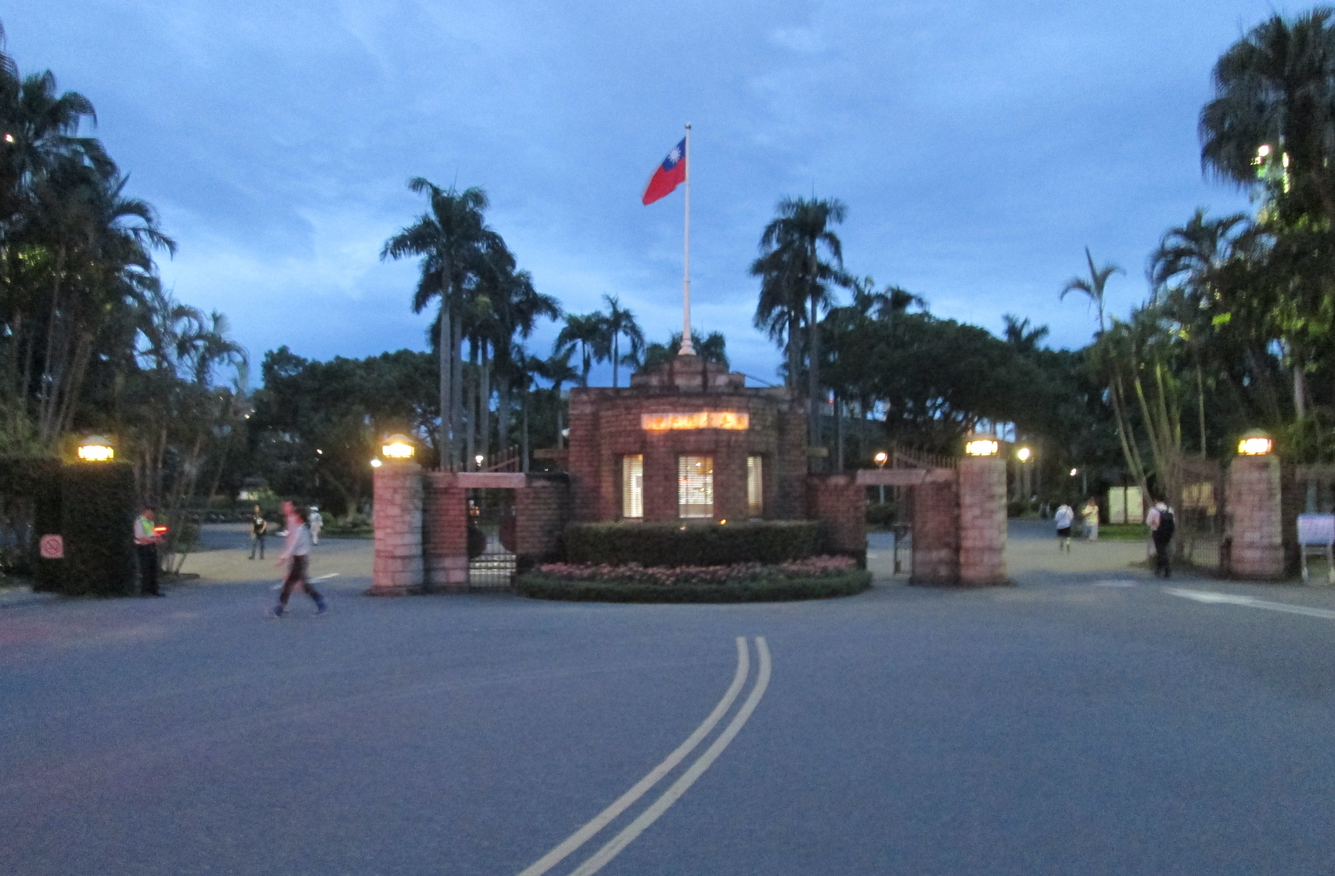
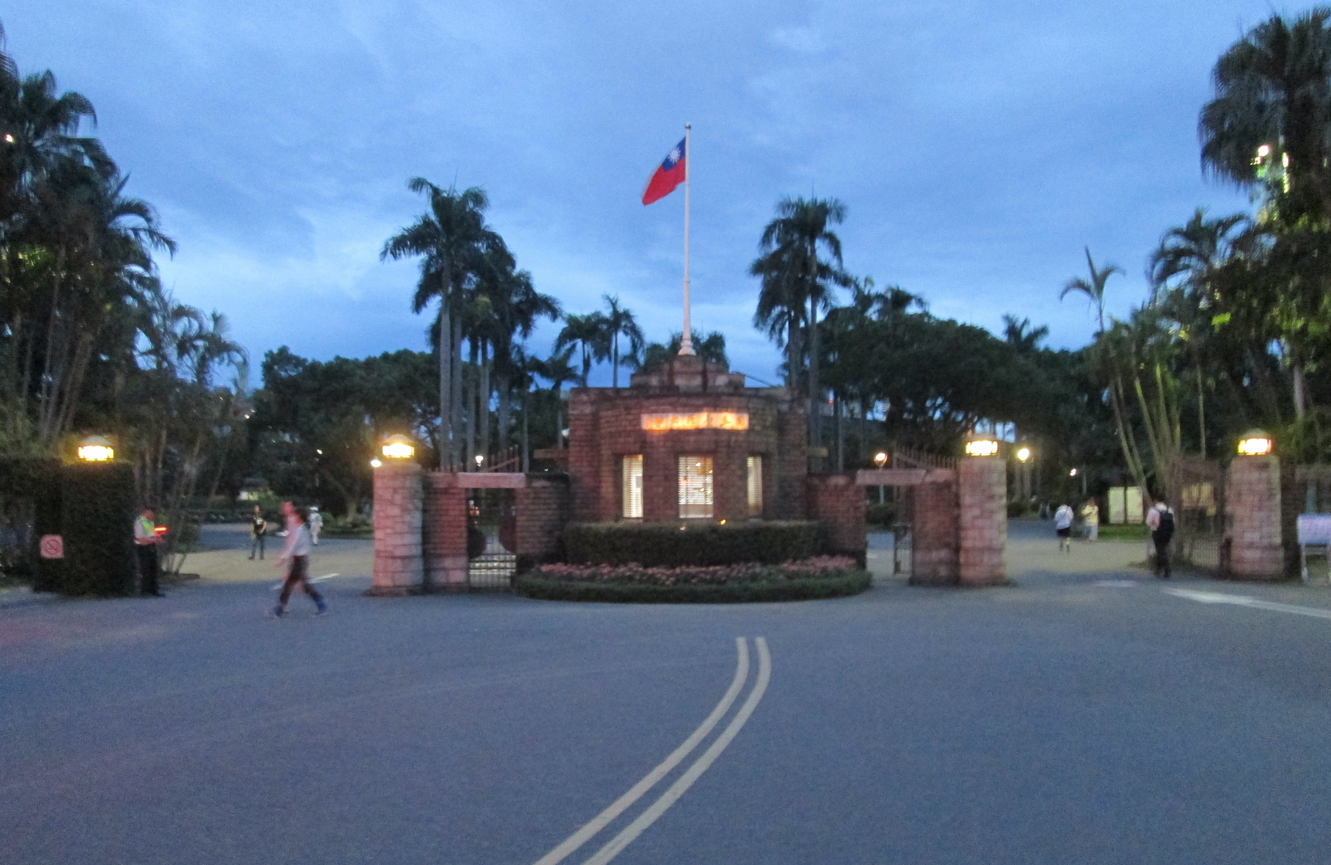
#

diff --git a/Home.html b/Home.html
@@ -68,7 +68,7 @@
                         <!-- Wrapper for slides -->
                         <div class="carousel-inner">
                             <div class="item active">
-                                <img class="img-responsive img-full" src="http://screenshot.net/04z9ziq.jpg" alt="">
+                                <img class="img-responsive img-full" src="http://screenshot.net/047z7iv.jpg" alt="">
                             </div>
                             <div class="item">
                                 <img class="img-responsive img-full" src="http://screenshot.net/0pdqdun.jpg" alt="">
